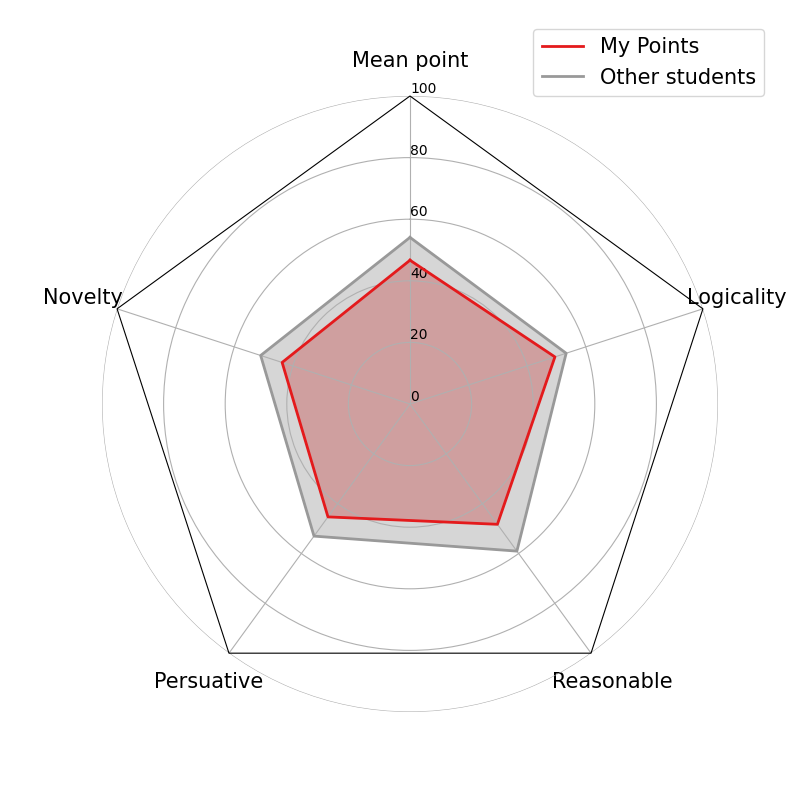
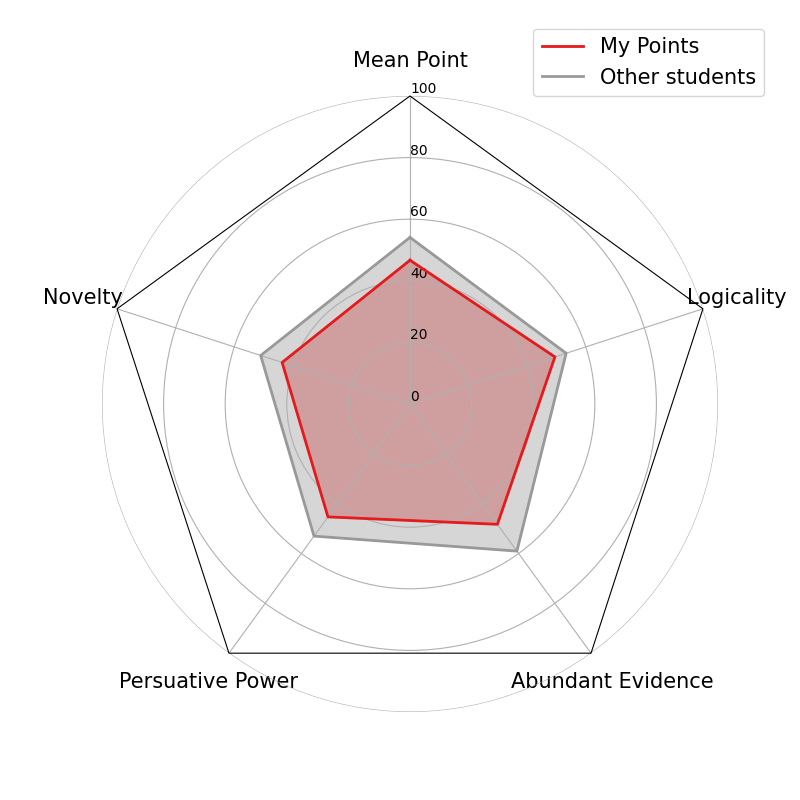
80% 완료

Changed region(s): [[0.625, 0.8438, 0.9062, 0.875], [0.1562, 0.8438, 0.375, 0.875], [0.4375, 0.0625, 0.5938, 0.0938]]

diff --git a/templates/result.html b/templates/result.html
@@ -274,7 +274,7 @@
                         </div>
                         <ul class="ul">
                             <li>내 점수 <span class="blue logical-blue">{{ my_points[0] }}</span>점</li>
-                            <li>평균점수<span class="green">{{ hub_points[0] }}점</span></li>
+                            <li>평균 점수 <span class="green">{{ hub_points[0] }}점</span></li>
                             <li>상위 {{ grade_list[0] }}%</li>
                         </ul>
                     </div>
@@ -350,8 +350,8 @@
                             Below Points
                         </div>
                         <ul class="ul">
-                            <li>내 점수 <span class="blue logical-blue">{{total_mean[0]}}점</span></li>
-                            <li>평균 <span class="green">{{total_mean[1]}}점</span></li>
+                            <li>내 평균 점수 <span class="blue logical-blue">{{total_mean[0]}}점</span></li>
+                            <li>요소별 총 평균 <span class="green">{{total_mean[1]}}점</span></li>
                             <li>상위 {{my_total_grade}}%</li>
                         </ul>
                     </div>

diff --git a/pic.py b/pic.py
@@ -34,10 +34,10 @@ def total_graph(mean,my_points, hub_points):
     ## 데이터 준비
     df = pd.DataFrame({
     'Character': ['My Points','Other students'],
-    'Mean point': [mean[0], mean[1]],
+    'Mean Point': [mean[0], mean[1]],
     'Logicality': [my_points[0], hub_points[0]],
-    'Reasonable': [my_points[1], hub_points[1]],
-    'Persuative': [my_points[2], hub_points[2]],
+    'Abundant Evidence': [my_points[1], hub_points[1]],
+    'Persuative Power': [my_points[2], hub_points[2]],
     'Novelty': [my_points[3], hub_points[3]]
     })
     labels = df.columns[1:]
